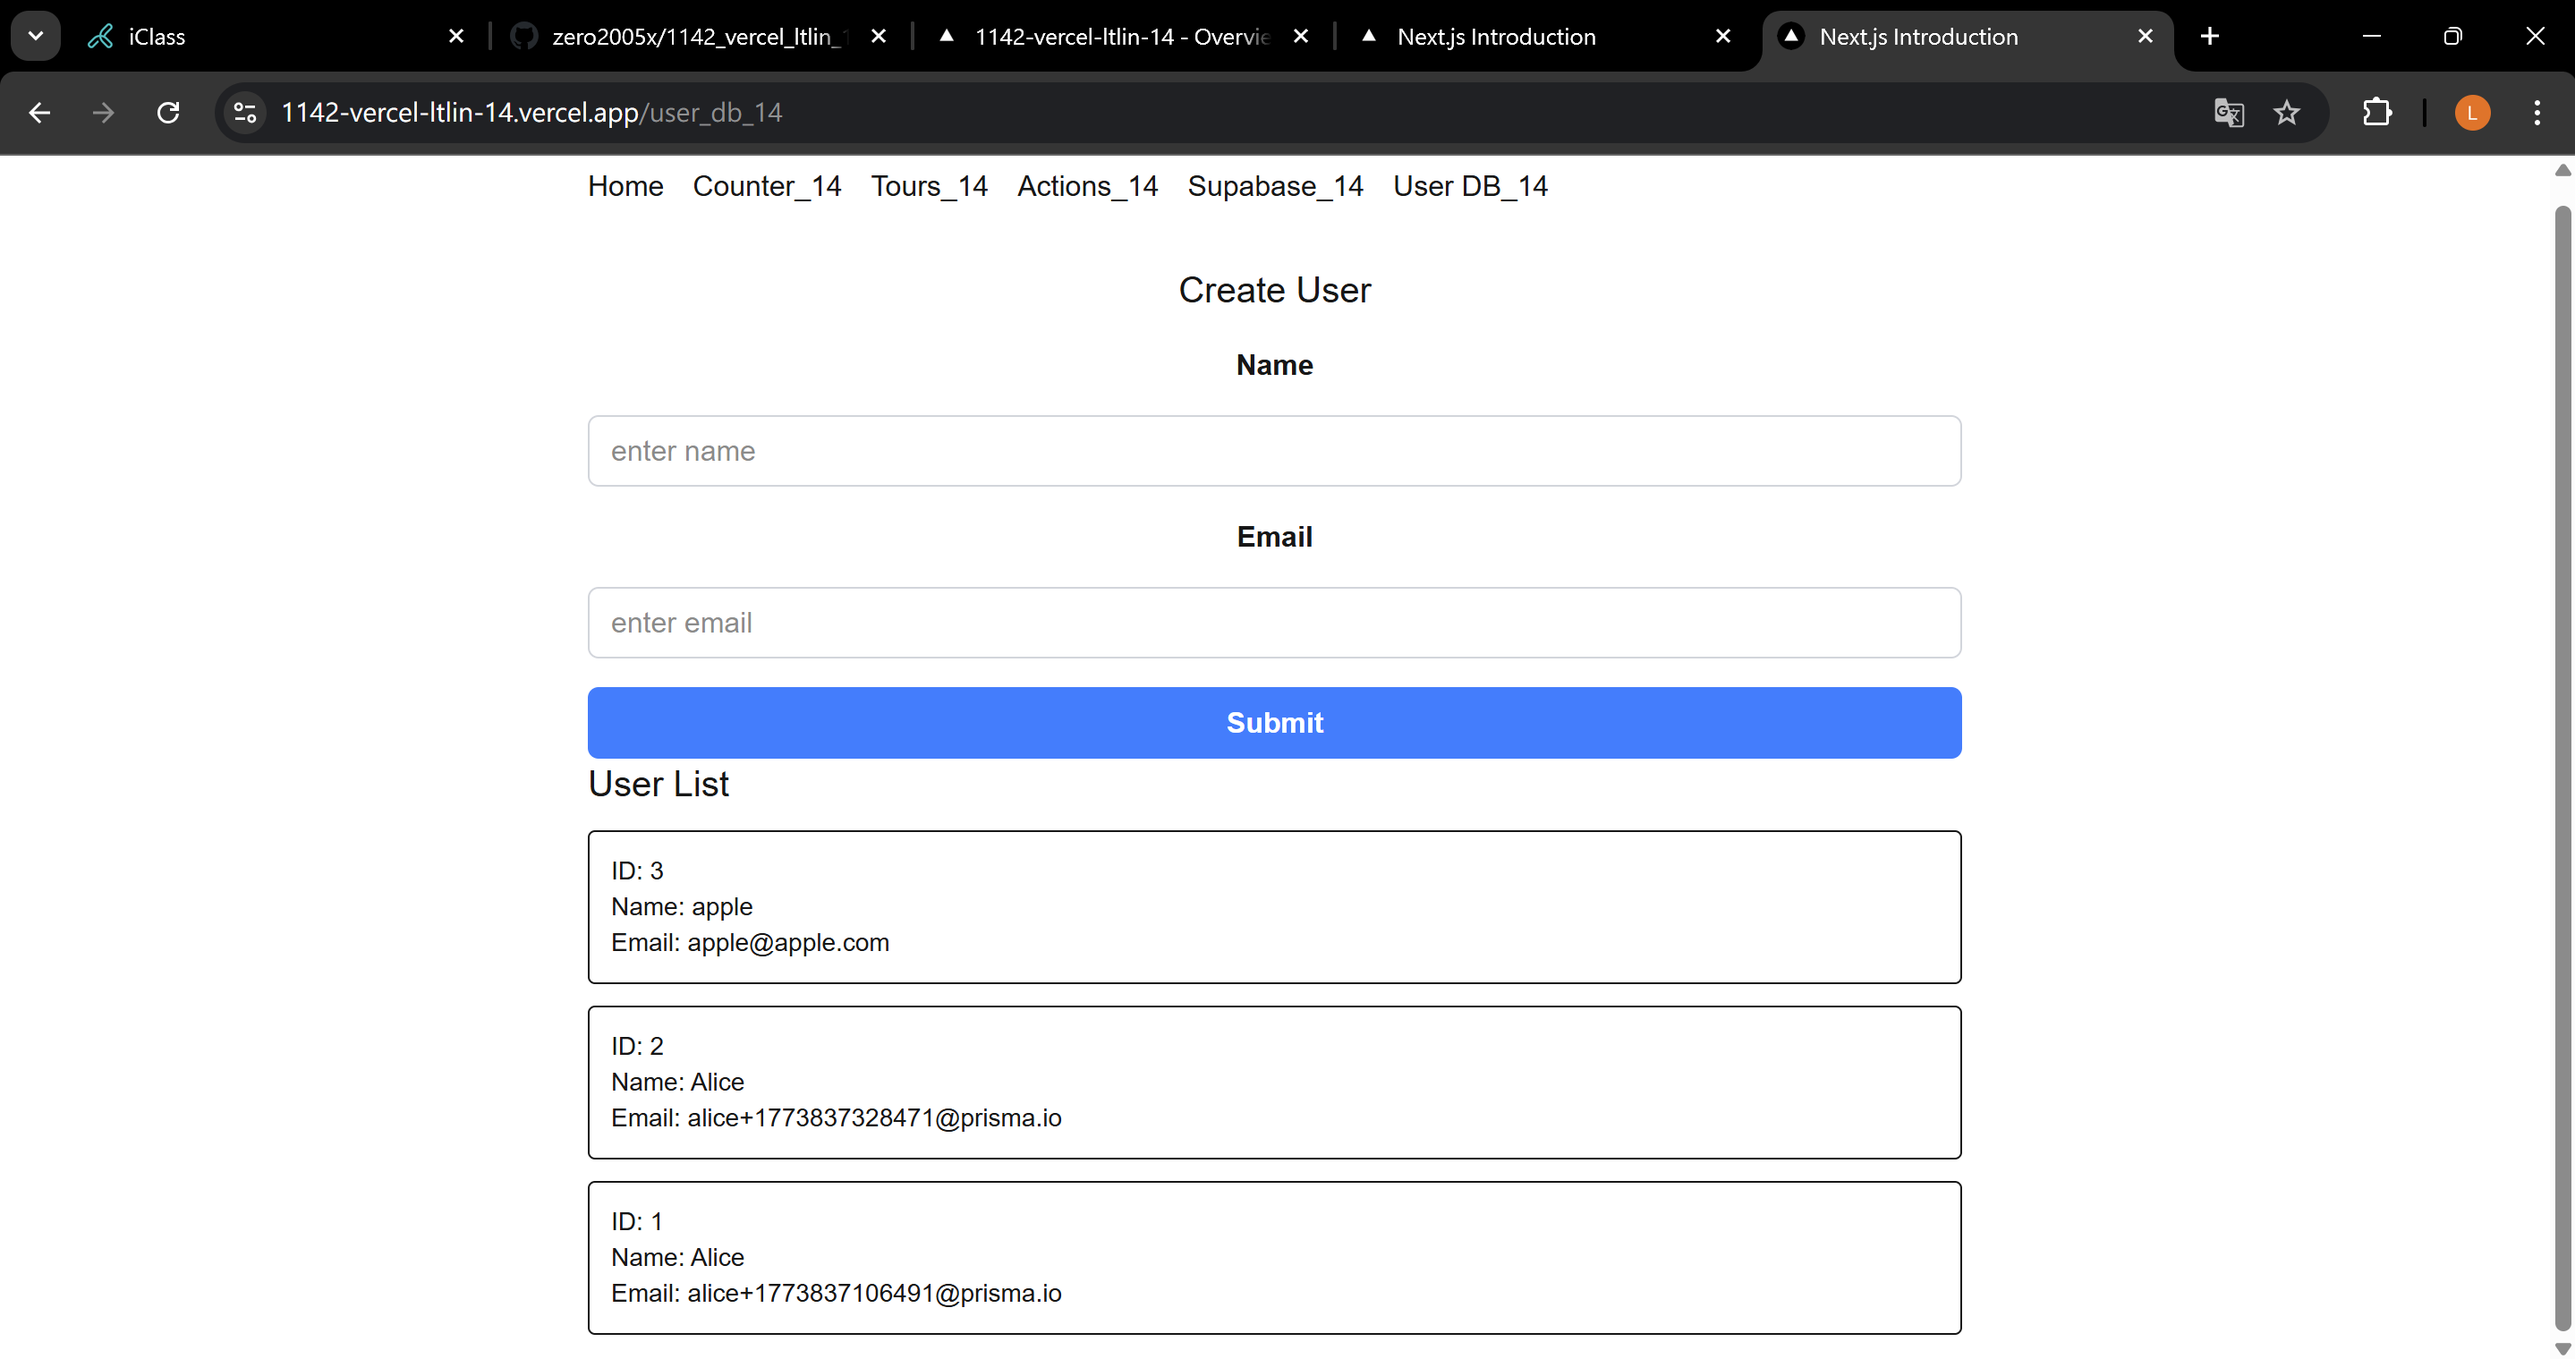
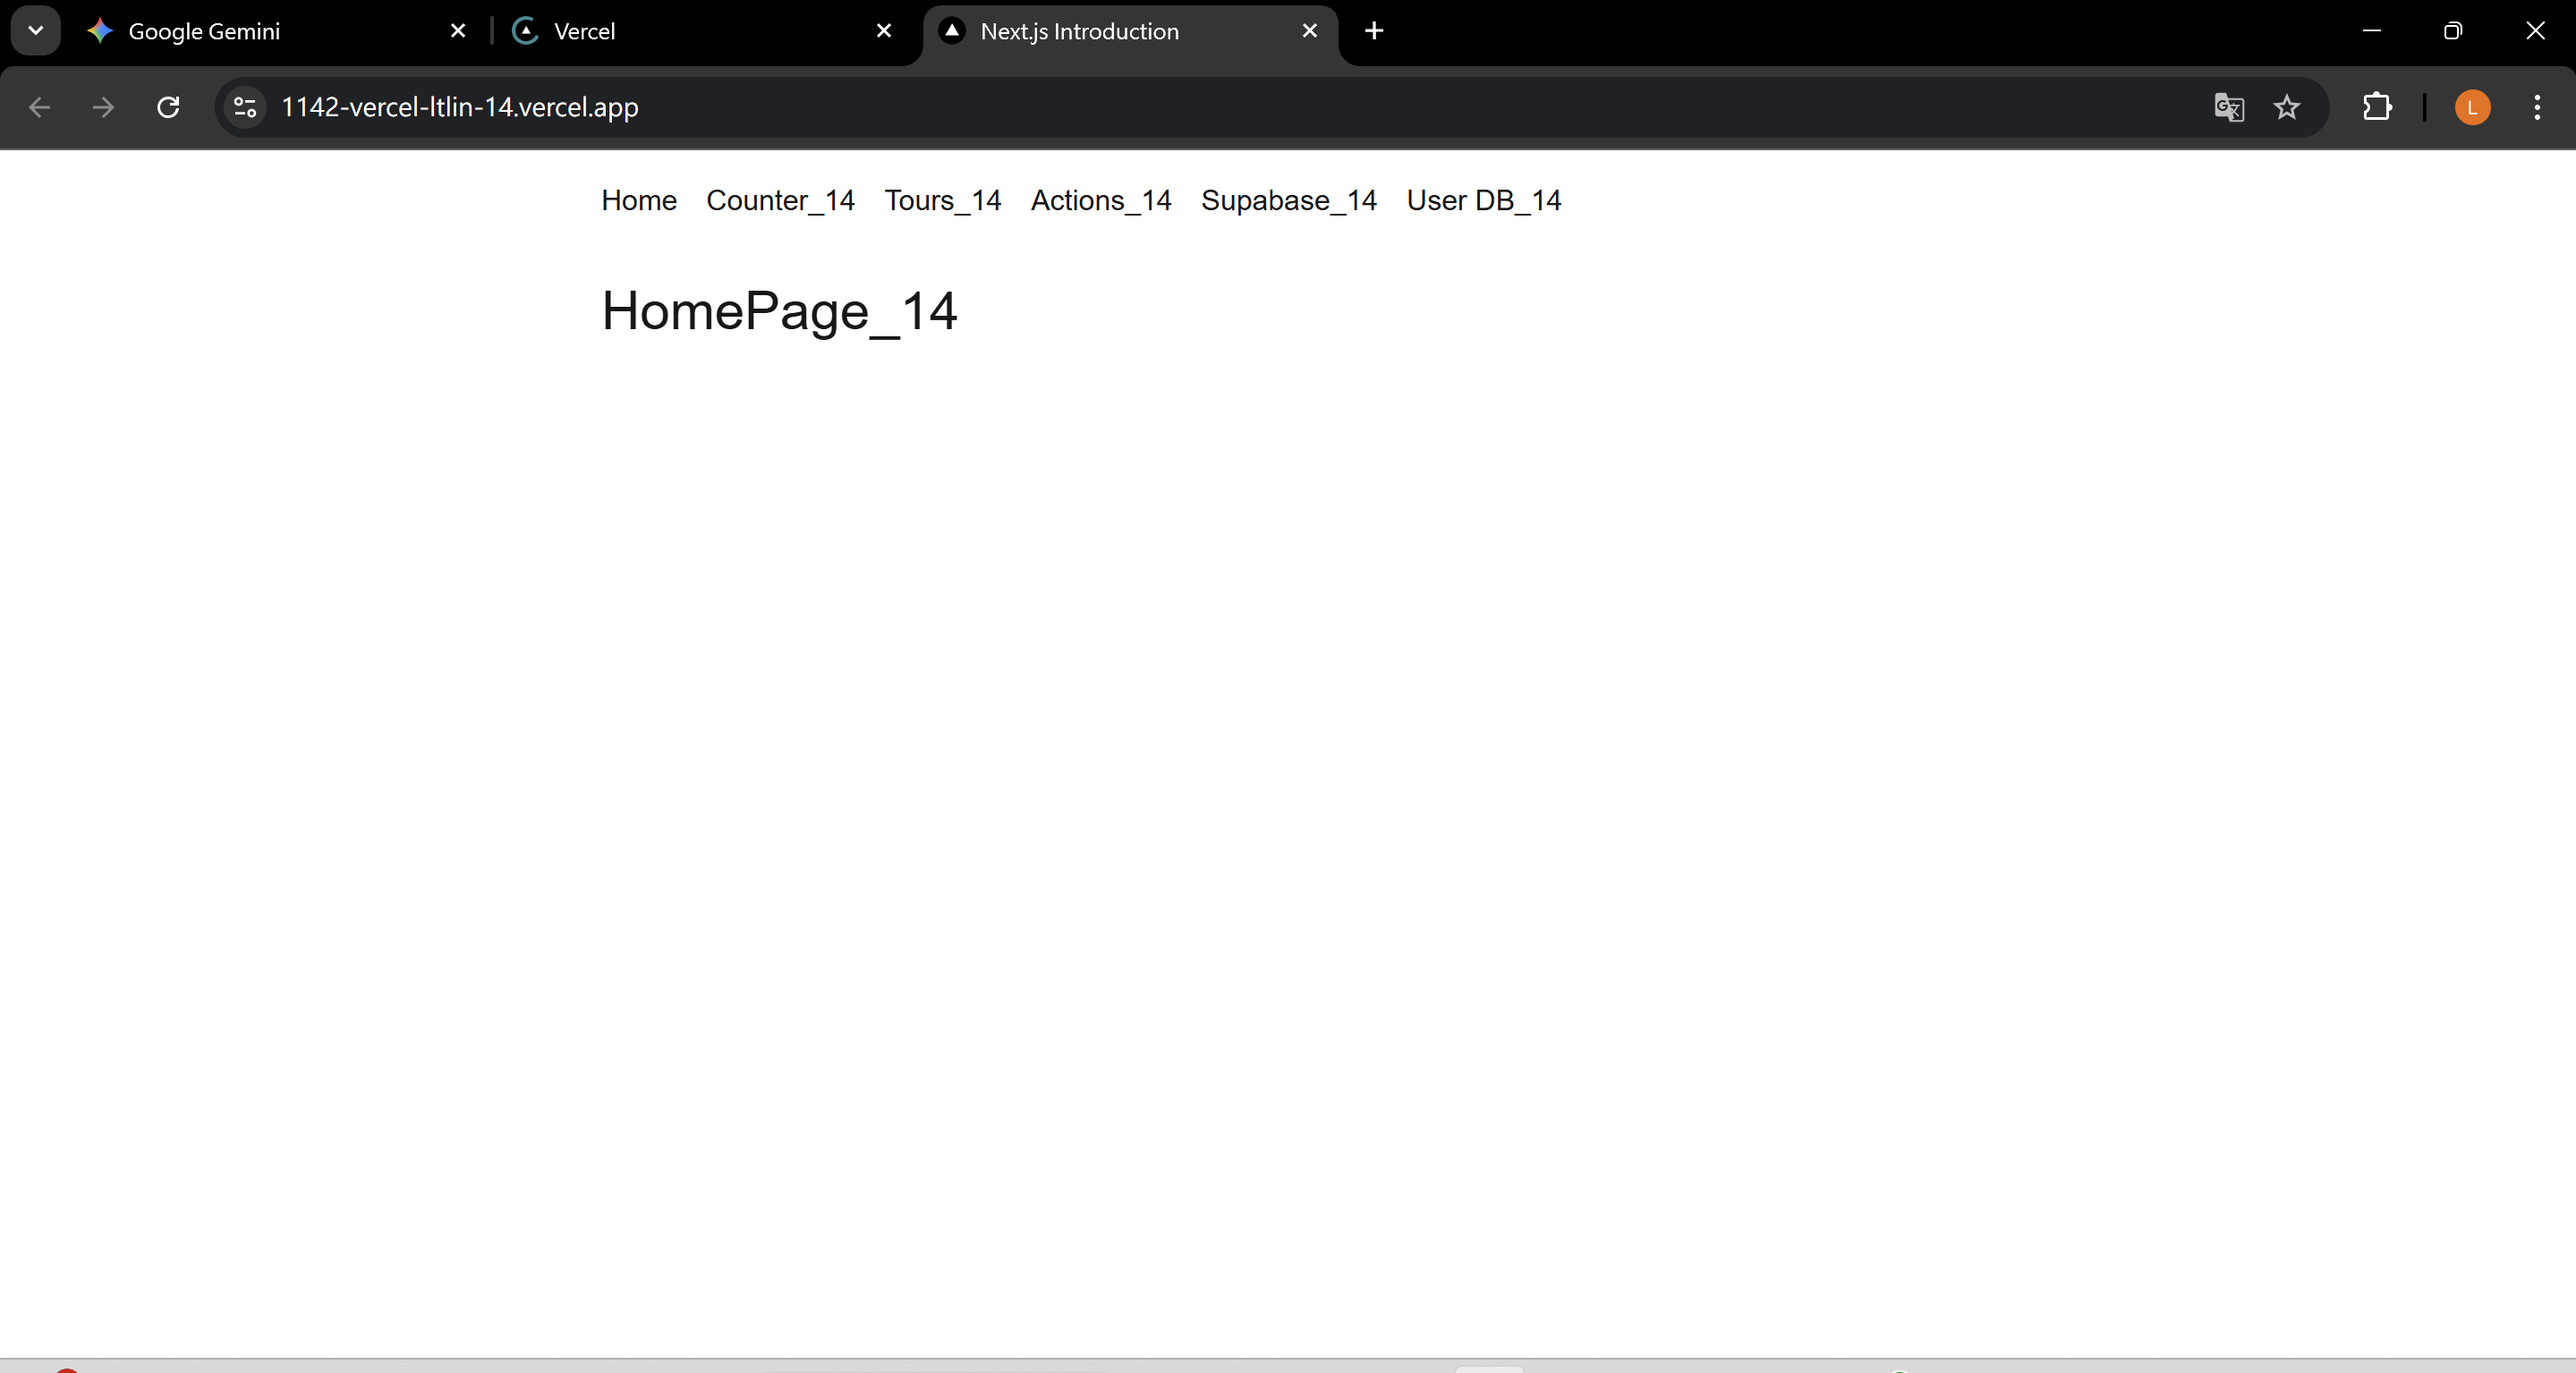
W05-P2: Create User using server action

diff --git a/demo/md/w05_user_14/w05_user_14.md b/demo/md/w05_user_14/w05_user_14.md
@@ -36,7 +36,7 @@
 ```
 ```
 
-### W05-P3:W05-P3: Delete an user from Supabase
+### W05-P3: Delete an user from Supabase
  
 #### => from console.log show an user being deleted
  
@@ -50,6 +50,22 @@
 ```
 
 ```
+
+### W05-P4:Refine Form_xx using useFormStatus and useFormState
+ 
+#### => create an user and show return message
+ 
+![](w05-p4-1.png)
+ 
+#### => show how code is working
+ 
+![](w05-p4-2.png)
+ 
+
+```
+
+```
+
 
 ### W05-logs: git logs of W05
 
